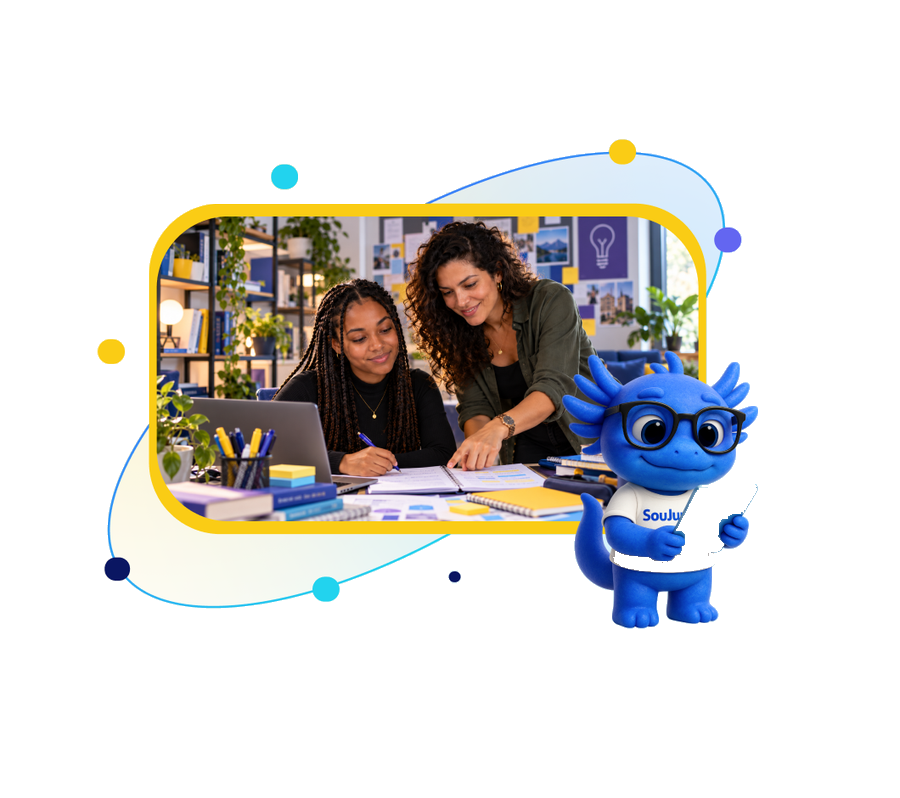
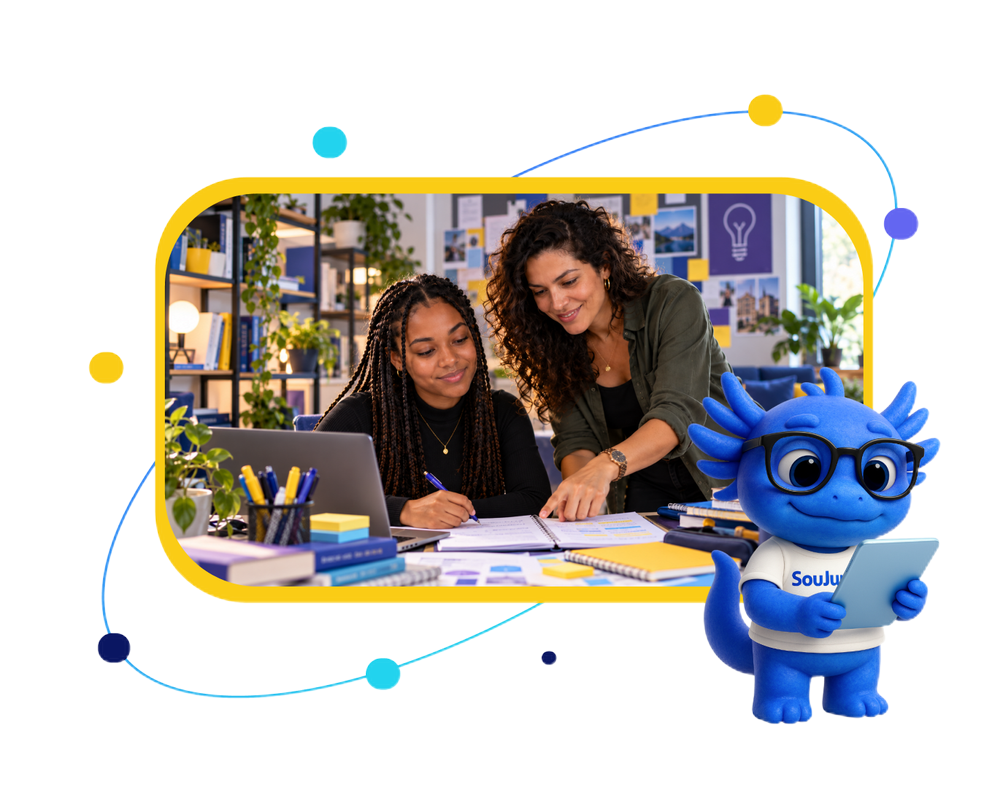
fix: ajusta responsivo, medidas do Figma e corrige camada do CSS
- Move a regra global de img para @layer base, para que as classes de
  largura do Tailwind voltem a funcionar nas imagens
- Hero: texto alinhado a esquerda no celular e imagem nas medidas do design
- Cards: icone monta sobre a borda de cima no celular e a esquerda no desktop
- Composicao de mentoria com fundo transparente e proporcao 1.235
- Barra de impacto com menos espaco entre as frases no celular
- Links oficiais de Discord e site no rodape

diff --git a/src/components/OQueTornaPossivel.jsx b/src/components/OQueTornaPossivel.jsx
@@ -2,8 +2,8 @@ export default function OQueTornaPossivel() {
   return (
     <section className="py-20 lg:py-32 radial-glow-yellow">
       <div className="section-shell grid lg:grid-cols-2 gap-12 lg:gap-24 items-center">
-        <div className="text-center lg:text-left order-2 lg:order-1">
-          <div className="relative w-full max-w-md mx-auto lg:mx-0 mb-10">
+        <div className="text-center lg:text-left">
+          <div className="relative mx-auto mb-10 w-full max-w-[456px] lg:mx-0">
             {/* Elipses desfocadas que ficam atrás da imagem, como no Figma */}
             <span
               aria-hidden="true"
@@ -22,14 +22,14 @@ export default function OQueTornaPossivel() {
           <h2 className="text-4xl md:text-5xl font-black text-primary leading-tight mb-6">
             O que a SouJunior{' '}<br className="hidden md:block"/>torna possível
           </h2>
-          <p className="text-dark/70 leading-relaxed max-w-md mx-auto lg:mx-0">
+          <p className="mx-auto max-w-md leading-relaxed text-dark/70 lg:mx-0">
             <strong className="text-dark">Aprender significa colocar a mão na massa.</strong>{' '}
             Projetos reais, mentoria e comunidade criam um espaço onde profissionais
             podem praticar, evoluir e construir experiência juntos.
           </p>
         </div>
 
-        <div className="flex flex-col gap-10 order-1 lg:order-2">
+        <div className="mt-14 flex flex-col gap-14 lg:mt-0 lg:gap-10">
           {[
             {
               titulo: 'Projetos reais',
@@ -56,13 +56,15 @@ export default function OQueTornaPossivel() {
               icone: <path strokeLinecap="round" strokeLinejoin="round" strokeWidth={2} d="M17 20h5v-2a3 3 0 00-5.356-1.857M17 20H7m10 0v-2c0-.656-.126-1.283-.356-1.857M7 20H2v-2a3 3 0 015.356-1.857M7 20v-2c0-.656.126-1.283.356-1.857m0 0a5.002 5.002 0 019.288 0M15 7a3 3 0 11-6 0 3 3 0 016 0zm6 3a2 2 0 11-4 0 2 2 0 014 0zM7 10a2 2 0 11-4 0 2 2 0 014 0z" />
             }
           ].map((card) => (
-            <div key={card.titulo} className="relative flex flex-col items-center gap-4 text-center lg:block lg:pl-9 lg:text-left">
-              <div className={`w-14 h-14 lg:w-[72px] lg:h-[72px] rounded-2xl flex items-center justify-center flex-shrink-0 shadow-md ${card.fundoIcone} lg:absolute lg:left-9 lg:top-1/2 lg:z-10 lg:-translate-x-1/2 lg:-translate-y-1/2`}>
-                <svg className="w-7 h-7 lg:w-9 lg:h-9" fill="none" stroke="currentColor" viewBox="0 0 24 24">{card.icone}</svg>
-              </div>
-              <div className={`w-full min-w-0 rounded-[28px] border-2 bg-white/60 px-6 py-6 lg:py-9 lg:pl-[76px] lg:pr-10 ${card.borda}`}>
-                <h3 className="text-xl md:text-2xl font-bold mb-2">{card.titulo}</h3>
-                <p className="text-sm md:text-base text-dark/70 leading-relaxed">
+            <div key={card.titulo} className="relative lg:pl-9">
+              <div className={`relative w-full min-w-0 rounded-[28px] border-2 bg-white/60 px-6 pb-6 pt-10 text-center lg:py-9 lg:pl-[76px] lg:pr-10 lg:text-left ${card.borda}`}>
+                {/* No celular o ícone fica dentro do card (40x40). No desktop ele sobe
+                    para 72x72 e monta sobre a borda esquerda, como no Figma. */}
+                <div className={`absolute left-1/2 top-0 z-10 flex h-11 w-11 -translate-x-1/2 -translate-y-1/2 items-center justify-center rounded-xl shadow-md ${card.fundoIcone} lg:left-0 lg:top-1/2 lg:h-[72px] lg:w-[72px] lg:rounded-2xl`}>
+                  <svg className="h-5 w-5 lg:h-9 lg:w-9" fill="none" stroke="currentColor" viewBox="0 0 24 24">{card.icone}</svg>
+                </div>
+                <h3 className="mb-2 text-xl font-bold md:text-2xl">{card.titulo}</h3>
+                <p className="text-sm leading-relaxed text-dark/70 md:text-base">
                   <strong className="text-dark">{card.destaque}</strong> {card.texto}
                 </p>
               </div>

diff --git a/src/components/Hero.jsx b/src/components/Hero.jsx
@@ -8,13 +8,13 @@ export default function Hero() {
         style={{ backgroundImage: "url('/fotos/hero-elipses.png')" }}
       />
       <div className="relative z-10 grid lg:grid-cols-2 gap-12 lg:gap-8 items-center">
-        <div className="max-w-xl text-center md:text-left mx-auto md:mx-0">
+        <div className="max-w-xl">
           <h1 className="text-4xl md:text-5xl lg:text-6xl font-black leading-tight tracking-tight">
             O júnior de hoje transforma o amanhã.
           </h1>
           <p className="mt-6 text-lg text-dark/70 font-medium">Toda carreira precisa de uma primeira oportunidade para acontecer.</p>
           <p className="mt-4 text-dark/70">Na SouJunior, profissionais desenvolvem experiência em projetos reais, aprendem com mentores e crescem ao lado de uma comunidade inteira. Com R$ 2 ou mais, você ajuda essa jornada a continuar.</p>
-          <div className="mt-10 flex flex-col sm:flex-row flex-wrap gap-4 justify-center md:justify-start">
+          <div className="mt-10 flex flex-col flex-wrap gap-4 sm:flex-row">
             <a
               href="https://apoia.se/soujunior"
               target="_blank"
@@ -32,12 +32,12 @@ export default function Hero() {
           </div>
         </div>
 
-        <div className="relative w-full flex items-center justify-center lg:justify-end mt-12 lg:mt-0">
+        <div className="relative mt-4 flex w-full items-center justify-center lg:mt-0 lg:justify-end">
            {/* Composicao do hero exportada do Figma (fotos + formas + mascote) */}
            <img
              src="/fotos/hero-composicao.png"
              alt="Pessoas da comunidade SouJunior estudando e trabalhando, ao lado do mascote da SouJunior"
-             className="relative w-full max-w-xl object-contain"
+             className="relative mx-auto w-full max-w-[360px] object-contain lg:mx-0 lg:max-w-[553px]"
            />
         </div>
       </div>

diff --git a/src/components/Rodape.jsx b/src/components/Rodape.jsx
@@ -34,7 +34,7 @@ export default function Rodape() {
             {[
               {
                 nome: 'Discord',
-                url: 'https://discord.gg/soujunior',
+                url: 'https://discord.com/invite/FkBcf3vdQZ',
                 caminho: 'M20.317 4.369a19.79 19.79 0 00-4.885-1.515.074.074 0 00-.079.037c-.21.375-.444.864-.608 1.249a18.27 18.27 0 00-5.487 0 12.64 12.64 0 00-.617-1.25.077.077 0 00-.079-.036A19.736 19.736 0 003.677 4.37a.07.07 0 00-.032.027C.533 9.046-.32 13.58.099 18.057a.082.082 0 00.031.057 19.9 19.9 0 005.993 3.03.078.078 0 00.084-.028c.462-.63.874-1.295 1.226-1.994a.076.076 0 00-.041-.106 13.107 13.107 0 01-1.872-.892.077.077 0 01-.008-.128c.126-.094.252-.192.372-.291a.074.074 0 01.077-.01c3.928 1.793 8.18 1.793 12.062 0a.074.074 0 01.078.009c.12.099.246.198.373.292a.077.077 0 01-.006.127 12.3 12.3 0 01-1.873.891.077.077 0 00-.041.107c.36.698.772 1.362 1.225 1.993a.076.076 0 00.084.028 19.839 19.839 0 006.002-3.03.077.077 0 00.032-.055c.5-5.177-.838-9.674-3.549-13.66a.061.061 0 00-.031-.029zM8.02 15.331c-1.182 0-2.157-1.085-2.157-2.419 0-1.333.956-2.419 2.157-2.419 1.21 0 2.176 1.096 2.157 2.42 0 1.333-.956 2.418-2.157 2.418zm7.975 0c-1.183 0-2.157-1.085-2.157-2.419 0-1.333.955-2.419 2.157-2.419 1.21 0 2.176 1.096 2.157 2.42 0 1.333-.946 2.418-2.157 2.418z',
               },
               {
@@ -49,7 +49,7 @@ export default function Rodape() {
               },
               {
                 nome: 'Site',
-                url: 'https://soujunior.tech',
+                url: 'https://www.soujunior.tech/',
                 caminho: 'M12 2a10 10 0 100 20 10 10 0 000-20zm0 2c1.3 0 2.5 2.1 3 5H9c.5-2.9 1.7-5 3-5zM4.3 10h3.4a22 22 0 000 4H4.3a8 8 0 010-4zm5.4 0h4.6a20 20 0 010 4H9.7a20 20 0 010-4zm6.6 0h3.4a8 8 0 010 4h-3.4a22 22 0 000-4zM9 16h6c-.5 2.9-1.7 5-3 5s-2.5-2.1-3-5z',
               },
             ].map((canal) => (

diff --git a/src/components/BarraImpacto.jsx b/src/components/BarraImpacto.jsx
@@ -8,8 +8,8 @@ const numeros = [
 
 export default function BarraImpacto() {
   return (
-    <div id="impacto" className="bg-secondary py-6 md:py-8 border-y border-dark/10 overflow-hidden px-4">
-      <div className="section-shell flex flex-col md:flex-row flex-wrap justify-center lg:justify-between items-center gap-6 lg:gap-8 text-sm font-bold text-center md:text-left">
+    <div id="impacto" className="bg-secondary py-5 md:py-8 border-y border-dark/10 overflow-hidden px-4">
+      <div className="section-shell flex flex-col md:flex-row flex-wrap justify-center lg:justify-between items-center gap-2.5 md:gap-6 lg:gap-8 text-sm font-bold text-center md:text-left">
         {numeros.map((item) => (
           <div key={item.texto} className="flex items-center gap-2">
             <span className="text-2xl md:text-xl">{item.valor}</span> {item.texto}

diff --git a/src/index.css b/src/index.css
@@ -65,10 +65,14 @@ a {
   background-image: radial-gradient(circle at center left, rgba(250, 204, 21, 0.15) 0%, transparent 60%);
 }
 
-/* Garante que imagens nunca passem do tamanho da tela */
-img {
-  max-width: 100%;
-  height: auto;
+/* Garante que imagens nunca passem do tamanho da tela.
+   Fica em @layer base para que as classes do Tailwind possam sobrescrever
+   quando uma imagem precisar de largura própria. */
+@layer base {
+  img {
+    max-width: 100%;
+    height: auto;
+  }
 }
 
 
